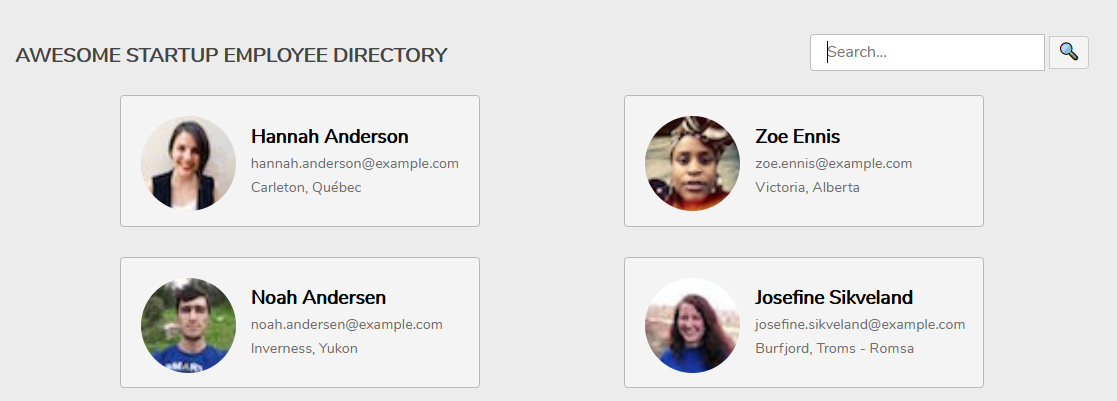
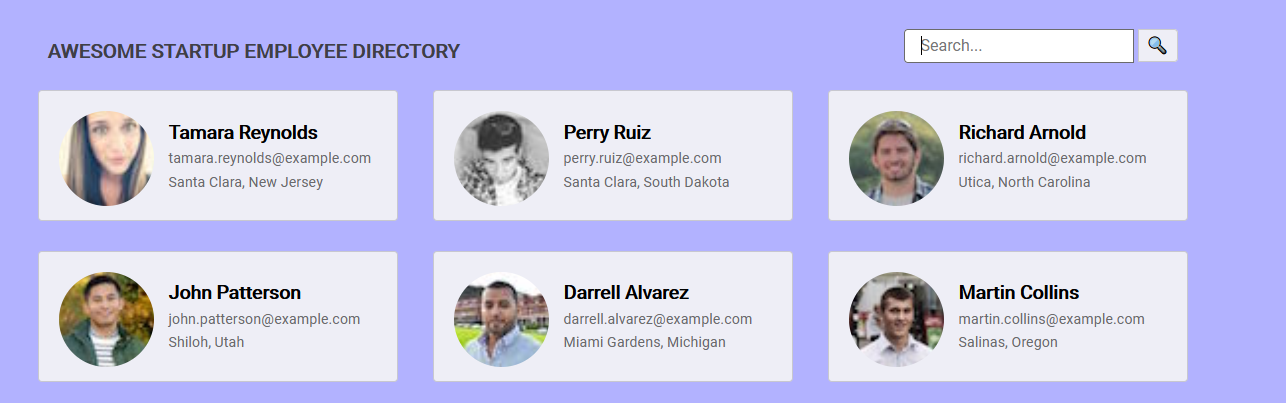
personalizando estilos

diff --git a/css/styles.css b/css/styles.css
@@ -2,7 +2,7 @@
    Public API Request
 ======================================== */
 
-@import url('https://fonts.googleapis.com/css?family=Nunito');
+@import url('https://fonts.googleapis.com/css?family=Roboto');
 
 * {
     box-sizing: border-box;
@@ -15,9 +15,9 @@ body {
 }
 
 body {
-    font-family: 'Nunito', sans-serif;
+    font-family: 'Roboto', sans-serif;
     text-align: center;
-    background: rgba(235, 235, 235, 0.9);
+    background: rgba(0, 0, 255, 0.3);
 }
 
 header {
@@ -93,8 +93,8 @@ header h1 {
     padding: 10px;
     background: rgba(245, 245, 245, 0.9);
     border-radius: 0.25em;
-    border: 1px solid rgba(50, 50, 50, 0.3);
-    transition: 0.4s ease-out;
+    border: 1px solid rgba(50, 50, 50, 0.2);
+    transition: 0.2s ease-out;
     overflow: hidden;
 }
 
@@ -121,6 +121,14 @@ header h1 {
 
 .cap {
     text-transform: capitalize;
+}
+
+.card:hover .card-img {
+    box-shadow: 0px 0px 5px 5px #004680;
+    -webkit-box-shadow: 0px 0px 5px 5px #004680;
+}
+.card-img {
+    overflow: hidden;
 }
 
 /* ===================================== 

diff --git a/README.md b/README.md
@@ -37,6 +37,10 @@ In this case we use Fetch Api:
 -   CSS
 -   Fetch Api
 
+## Styles CSS
+
+-   Change the font family to Roboto, background color, and shadow on the card image
+
 ## Resources
 
 -   Fetch Api definition taken from "https://developer.mozilla.org/es/docs/Web/API/Fetch_API".
